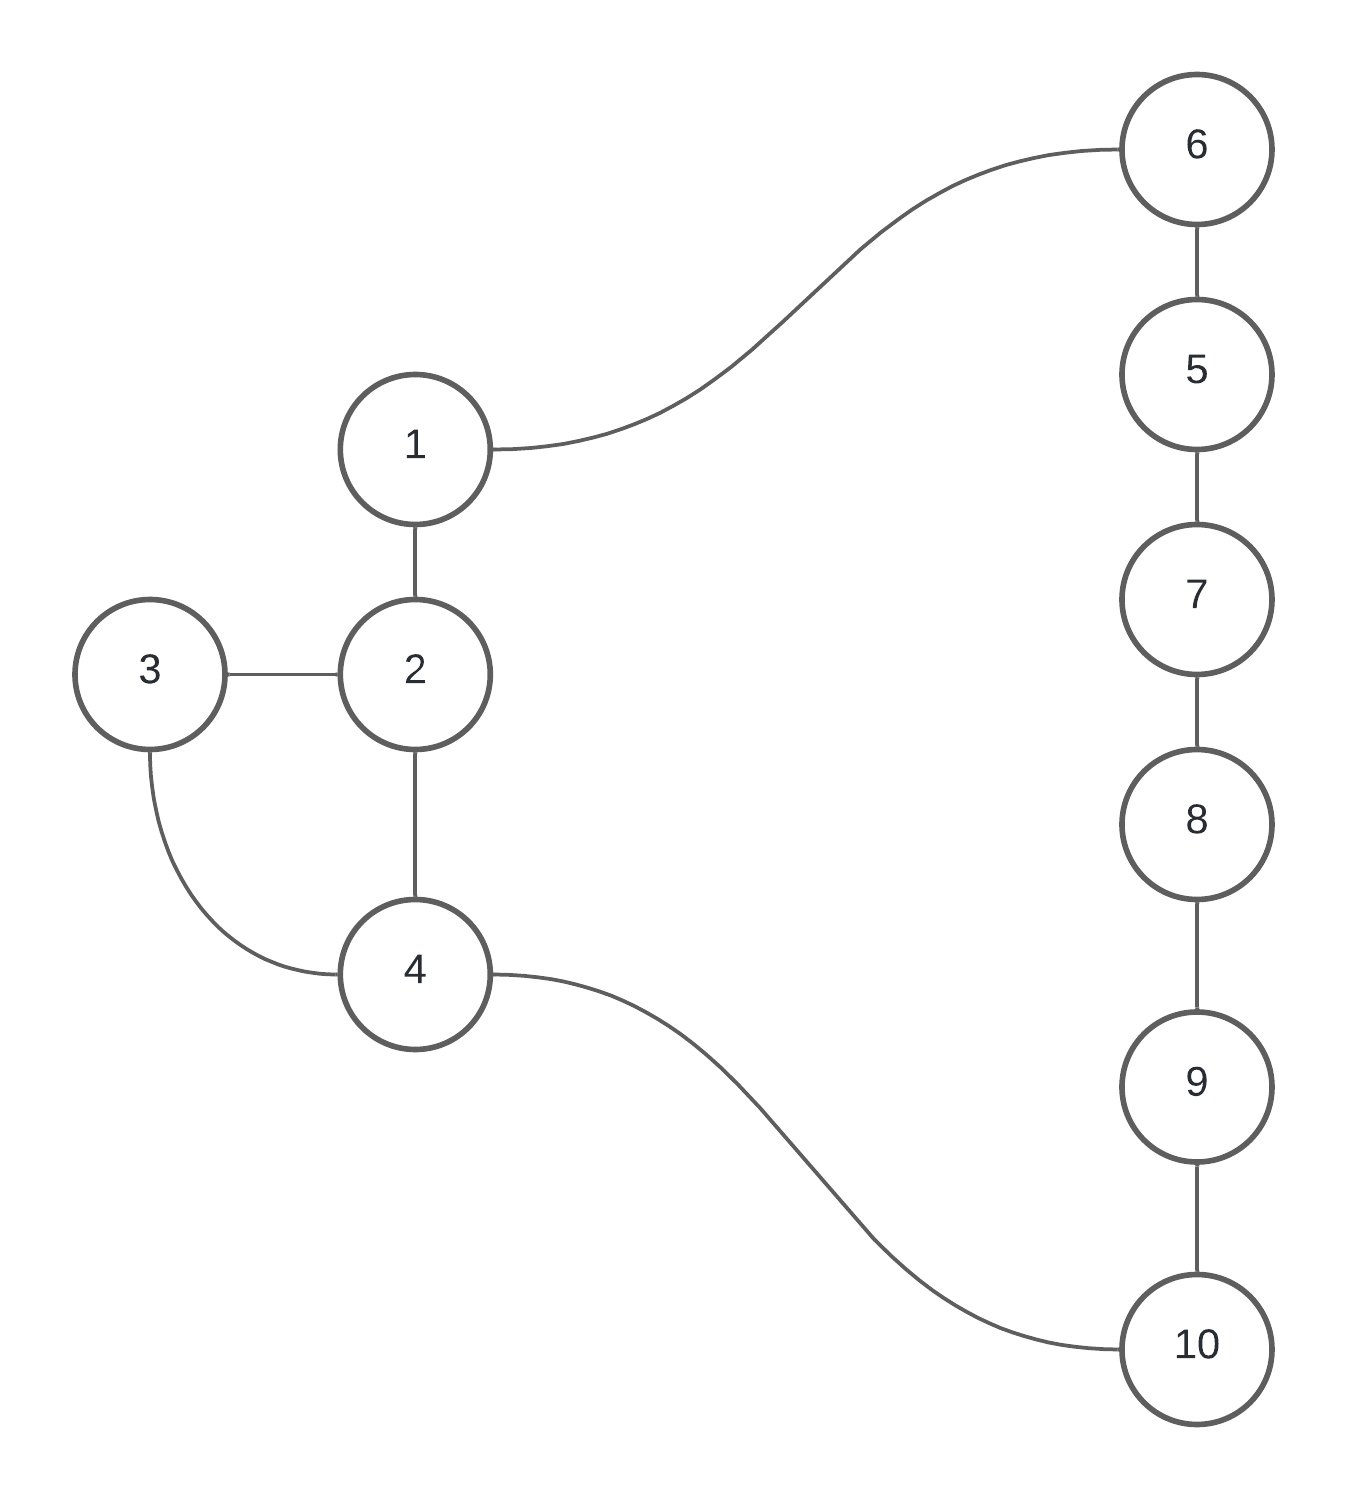
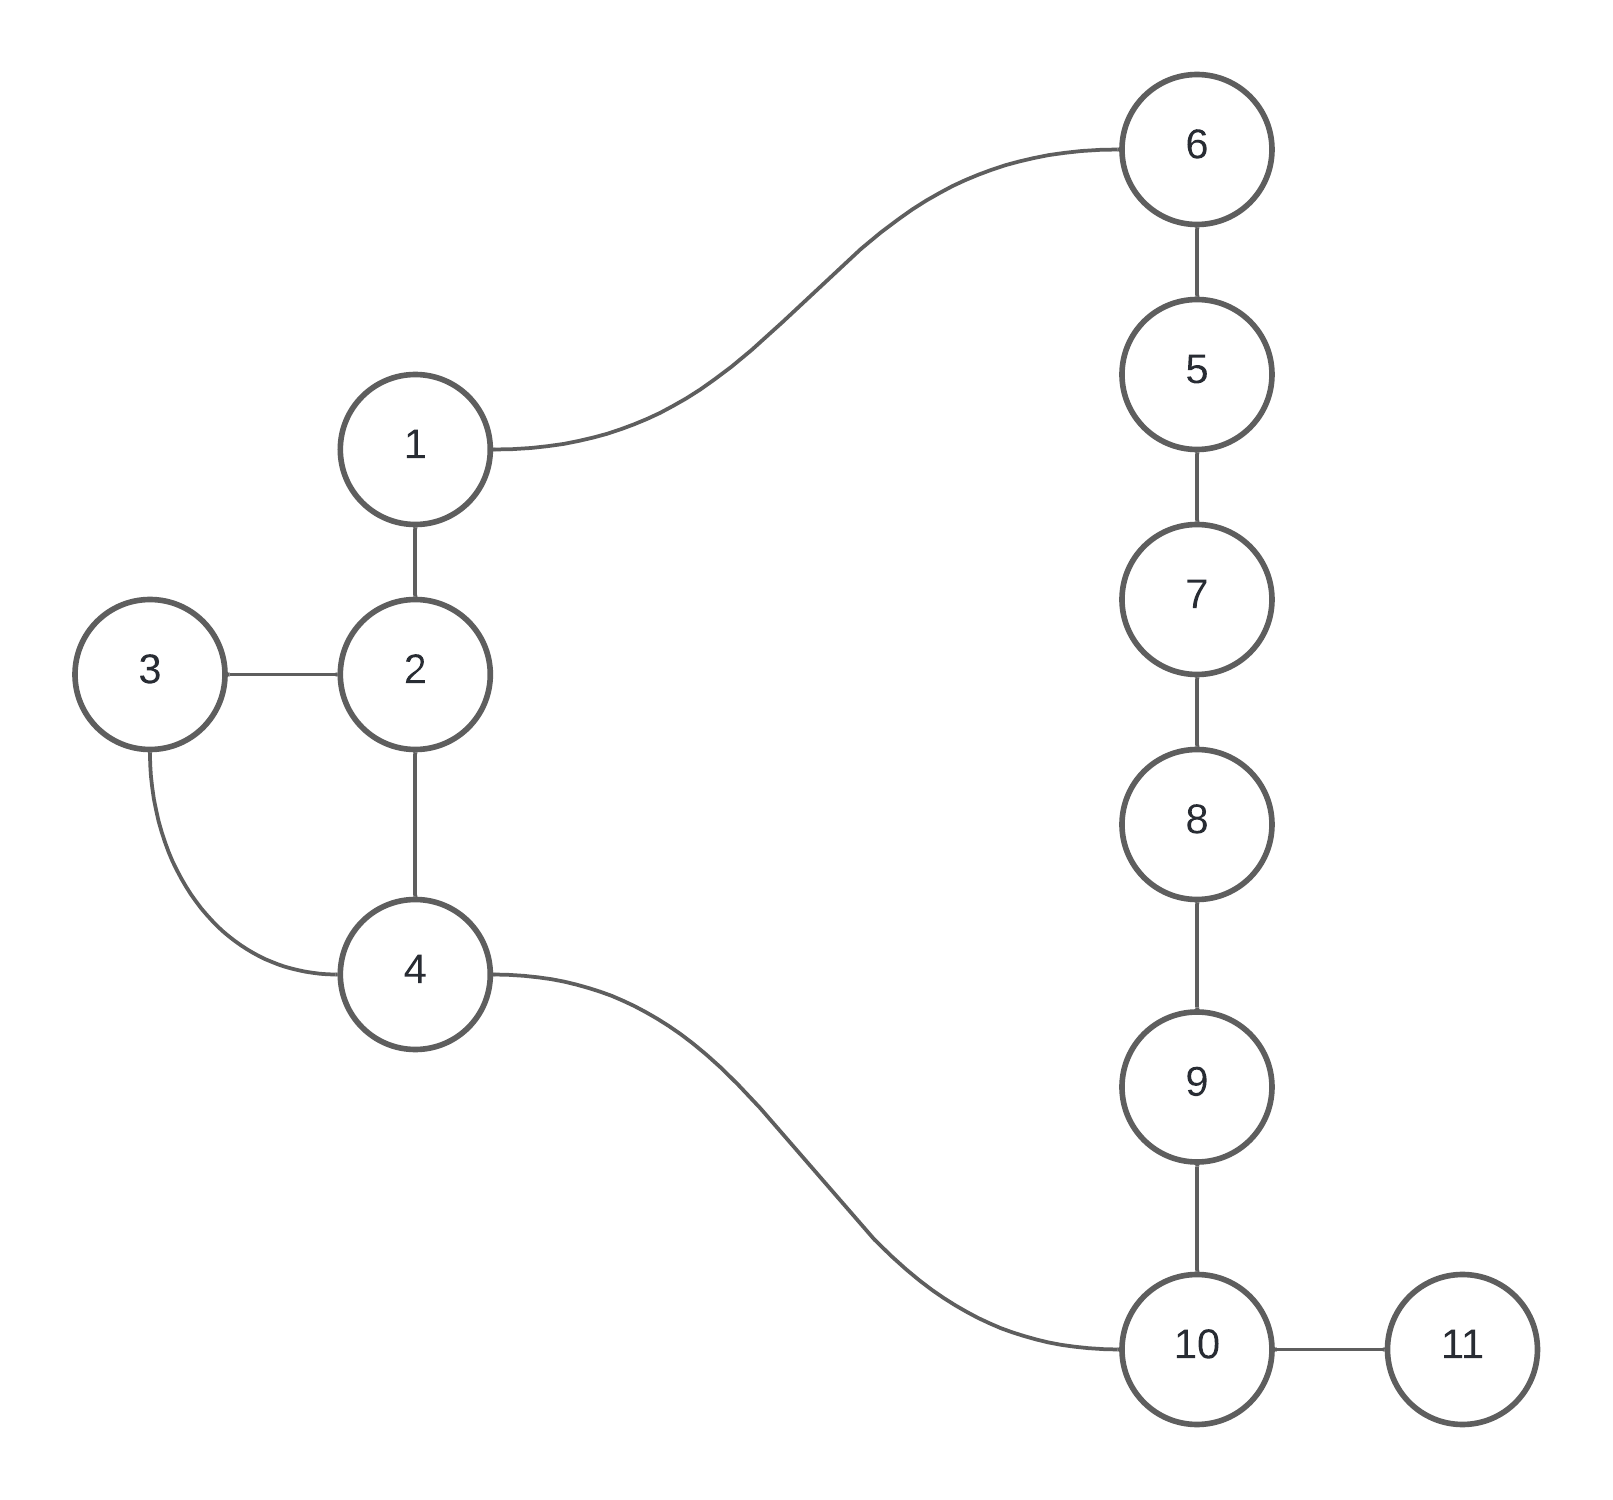
Update README.md

diff --git a/README.md b/README.md
@@ -1,26 +1,11 @@
-# Errors in the Code
-This Java code attempts to establish a connection to a MySQL database and verify user credentials. However, there are several errors in the code that need to be addressed:
-![](/img/CAIXA%20BRANCA.png)
-
-1. **ClassNotFoundException for MySQL Driver Manager**: In the `conectarBD()` method, the line `Class.forName("com.mysql.Driver.Manager").newInstance();` is incorrect. The correct class name for MySQL driver manager is `com.mysql.jdbc.Driver`, not `com.mysql.Driver.Manager`. This line should be changed to:
-   ```java
-   Class.forName("com.mysql.jdbc.Driver");
-   ```
-
-2. **SQL Injection Vulnerability**: In the `verificarUsuario()` method, the SQL query is concatenated using string manipulation. This is vulnerable to SQL injection attacks. It's recommended to use parameterized queries instead to prevent such vulnerabilities. The corrected SQL query should look like:
-   ```java
-   sql += "select nome from usuarios ";
-   sql +="where login = ? and senha = ?";
-   ```
-   And then set the parameters using `PreparedStatement`:
-   ```java
-   PreparedStatement st = conn.prepareStatement(sql);
-   st.setString(1, usuario);
-   st.setString(2, senha);
-   ```
-
-3. **Variable Naming Error**: In the `verificarUsuario()` method, the parameters are named `usuario` and `senha`, but the SQL query is trying to use variables named `login` and `senha`. It seems there is a variable naming inconsistency. You should use the correct variable names in the SQL query.
-
-4. **Resource Management**: The code lacks proper resource management for the database connections, statements, and result sets. It's important to close these resources properly after their use to avoid resource leaks. This can be done using try-with-resources statement in Java.
-
-By addressing these errors, the code will be more secure, maintainable, and less prone to bugs.
+# Flow Graph
+1. Node 1 (conectarBD()) is connected to Node 2 (try block) and Node 6 (verificarUsuario() method call).
+2. Node 2 (try block) is connected to Node 4 (return conn) and Node 3 (catch block).
+3. Node 3 (catch block) is connected back to Node 4 (return conn).
+4. Node 6 (verificarUsuario() method call) is connected to Node 5 (String sql = "").
+5. Node 5 (String sql = "") is connected to Node 7 (Prepare SQL statement).
+6. Node 7 (Prepare SQL statement) is connected to Node 8 (Set parameters).
+7. Node 8 (Set parameters) is connected to Node 9 (Execute query).
+8. Node 9 (Execute query) is connected to Node 10 (if condition).
+9. Node 10 (if condition) is connected to Node 4 (return conn) and Node 11 (return result).
+![](/img/White%20Box%20Flow%20Graph.png)
